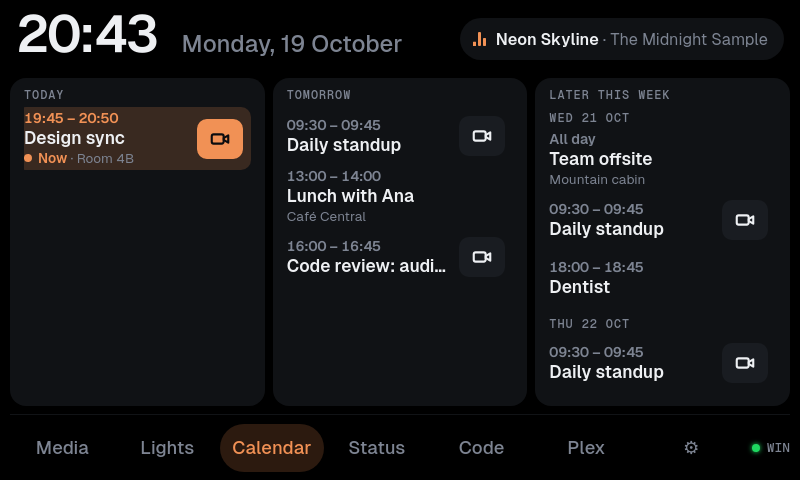
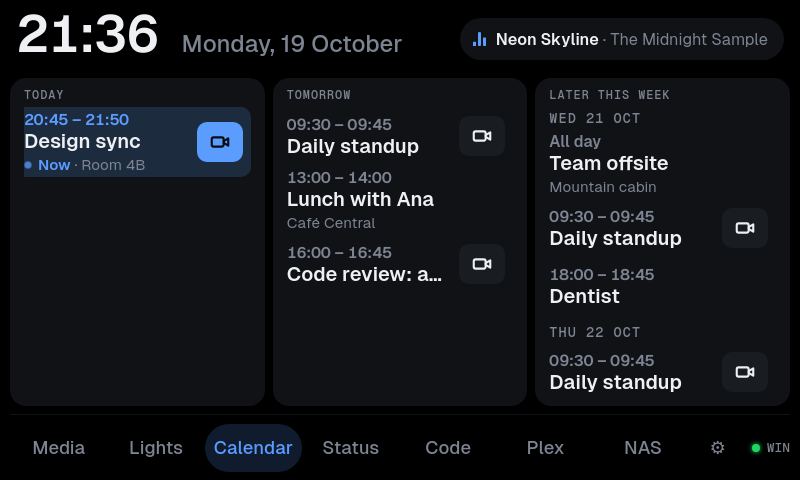
Document the NAS page and how to connect TrueNAS; add NAS and reminder screenshots

diff --git a/README.md b/README.md
@@ -8,7 +8,7 @@ as soon as you plug it in.
 - **Touchscreen:** pages of large tiles (Desktop, Shell, and a calls page: Discord
   or Meetings), each sending a shortcut, a media key, typed text or a sequence of
   steps, plus live pages filled by the computer agent: Media, Lights (Philips Hue),
-  Calendar, Status, Code (GitHub) and Plex. Up to seven tabs share the bottom bar;
+  Calendar, Status, Code (GitHub), Plex and NAS (TrueNAS). Up to seven tabs share the bottom bar;
   with more, it shows four at a time and scrolls. Settings → Tabs sets their order
   and hides any you don't use; live pages you haven't set up (no config file yet)
   start hidden and can be turned on there. On live pages, the top bar also shows the song
@@ -34,7 +34,8 @@ as soon as you plug it in.
 - **Computer agent (optional):** a small background agent on the computer adds what's
   playing with its cover, Philips Hue lights, your calendar with Join buttons,
   CPU/memory/GPU/network graphs, a kill switch for the app in focus, GitHub Actions
-  runs and pull requests, the streams and load of your Plex server, a volume bar,
+  runs and pull requests, the streams and load of your Plex server, your TrueNAS
+  pools, disks, alerts and apps, a volume bar,
   an audio device picker, a clock and a lock screen (see [Computer agent](#computer-agent)).
 - **Standby screen** while the computer sleeps; the pad reconnects by itself
   when it wakes up.
@@ -62,6 +63,8 @@ The Car Thing's screen is 800×480. These use made-up demo data.
 | **Desktop:** a tile page | **Settings → Appearance** |
 | ![Settings, Tabs: the pages in order with up and down arrows](docs/screenshots/tabs.png) | ![Plex page: three streams with posters and transcode tags, the server's CPU and bandwidth graphs, and the libraries](docs/screenshots/plex.png) |
 | **Settings → Tabs:** the order, and which tabs show | **Plex:** streams and how each is sent, server load, libraries |
+| ![NAS page: TrueNAS pools as tanks that fill up, disk temperatures, alerts and apps](docs/screenshots/nas.png) | ![A meeting reminder over the Code page: a countdown with Join meeting and Dismiss](docs/screenshots/reminder.png) |
+| **NAS:** TrueNAS pools, disks, alerts and apps | **Meeting reminder:** 5 minutes before, on any page |
 
 ## Requirements
 
@@ -209,6 +212,12 @@ them to the Car Thing **over the USB cable** (`adb forward`; no network):
   with any library scan in progress. The graphs need Plex Pass. The page refreshes
   every 3 seconds while it's on screen, every 30 seconds otherwise (see
   [Connecting Plex](#connecting-plex)).
+- **NAS (TrueNAS):** each pool as a tank that fills up (yellow from 80%, red from 90%)
+  with its health and free space, the temperature of every disk (NVMe drives have
+  their own, higher limits), the server's alerts, and how many apps run and how many
+  have updates. Below the pools: the TrueNAS version, uptime, cores, memory and load.
+  It refreshes every 10 seconds while on screen, every minute otherwise (see
+  [Connecting TrueNAS](#connecting-truenas)).
 - **Volume and audio devices:** when the volume or mute changes (the dial, the Mute
   tile, your keyboard), a volume bar shows at the top for a moment. The Media page
   header shows the current output; tap it to pick the output and input devices.
@@ -218,16 +227,17 @@ them to the Car Thing **over the USB cable** (`adb forward`; no network):
   - macOS: the volume always; switching devices needs `brew install switchaudio-osx`.
 - **Clock:** the agent sets the Car Thing's clock and time zone (DST included).
   The time shows large with the date at the top of the live pages (Media, Lights,
-  Calendar, Status, Code, Plex), and on the standby and lock
+  Calendar, Status, Code, Plex, NAS), and on the standby and lock
   screens; 24h/12h is under Settings → General → Clock.
 - **Lock screen:** while the computer is locked, the Car Thing shows the clock,
   "🔒 Computer locked", the cover and what's playing, and media buttons. Tiles,
   presets and dial modes that press keys are blocked while locked, so nothing gets
   typed into the password box; media keys, volume and the wheel still work.
 
-The agent works hardest for the page on screen: Lights, Status (its GPU reading), Code
-and Plex update every few seconds while you look at them and slowly otherwise (every
-30 seconds; GitHub every 5 minutes), and opening one of them fetches its data right away.
+The agent works hardest for the page on screen: Lights, Status (its GPU reading), Code,
+Plex and NAS update every few seconds while you look at them and slowly otherwise (every
+30 seconds; GitHub every 5 minutes, NAS every minute), and opening one of them fetches
+its data right away.
 What the other screens need (the song, volume, lock state, calendar) keeps its usual pace.
 
 Install it once per computer (and once per OS on a dual-boot PC). It starts at
@@ -326,6 +336,31 @@ networks that are allowed without auth" does not ask for one. The agent reads
 The token gives access to your Plex account, so keep `plex.txt` to yourself. The
 graphs of CPU and bandwidth need Plex Pass. Without it, the page shows the streams and
 libraries only.
+
+### Connecting TrueNAS
+
+The agent reads your TrueNAS server on the local network through its own API, with an
+API key. It needs TrueNAS 25.04 or later (the WebSocket API).
+
+1. Open the TrueNAS web interface (for example `https://192.168.1.30`) and sign in.
+2. Click the **person icon** at the top right, then **My API Keys**. (If it isn't
+   there, use **Credentials → API Keys** in the sidebar.)
+3. Click **Add**, name it `thingdeck`, leave **Non-expiring** on, and **Save**.
+4. TrueNAS shows the key **only once**: copy it.
+5. Create `truenas.txt` next to `calendars.txt` with the server's address on the
+   first line and the key on the second:
+
+   ```
+   192.168.1.30
+   1-AbCdEf…
+   ```
+
+The NAS page shows up within a minute; no restart needed. The agent always connects
+over HTTPS: TrueNAS revokes a key that is ever sent over plain HTTP. It accepts the
+server's self-signed certificate for that address only. The agent only reads (system
+info, pools, disk temperatures, alerts, apps). The key carries the rights of the user
+who made it, so for read-only access, make it as a user in the read-only
+administrators group. Keep `truenas.txt` to yourself.
 
 ## When the computer sleeps
 

diff --git a/device/README.md b/device/README.md
@@ -269,7 +269,7 @@ links and meeting links only).
 The command poll's reply carries `visible`, the widgets of the page on screen
 (`Pad.visible_widgets()`; none on the standby or lock screen). The agent reads those
 often and the rest slowly:
-Hue 2 s / 30 s, Plex 3 s / 30 s, GitHub 1 min (15 s while a workflow runs) / 5 min, and
+Hue 2 s / 30 s, Plex 3 s / 30 s, TrueNAS 10 s / 60 s, GitHub 1 min (15 s while a workflow runs) / 5 min, and
 the GPU part of the stats 2 s / 30 s (the rest of the stats, the song, audio, the host
 heartbeat and the calendars keep their pace). A widget that comes on screen is read at
 once. `PLEX_TTL` is 75 s so slow Plex updates don't expire.
@@ -330,6 +330,30 @@ same image.
 
 The widget `"plex"` redraws the streams card and the side cards separately, and it
 changes the progress bars in place.
+
+### TrueNAS
+
+The agent reads the TrueNAS server in `truenas.txt` (address, then an API key)
+through its JSON-RPC 2.0 API over a WebSocket, `wss://<address>/api/current`
+(TrueNAS 25.04+; the REST API is deprecated there). Each read opens one connection,
+calls `auth.login_with_api_key`, then `system.info`, `pool.query` (only the fields it
+shows, through `select`), `disk.temperatures`, `alert.list` and `app.query`, and
+closes it. Replies are matched by `id`, so notifications in between are skipped. A
+failing call other than `system.info` only leaves its part empty.
+
+It is always TLS: TrueNAS revokes an API key that arrives over plain HTTP. The
+certificate is usually self-signed, so the agents accept it for that address only (the
+same callback as the Hue bridge on Windows; `CERT_NONE` on that one socket in Python).
+Windows uses .NET's `ClientWebSocket`; Python has no WebSocket client, so
+`nowplaying.py` has a small one (masked text frames, ping/pong, fragments).
+
+Every 10 s while the NAS page is on screen, 60 s otherwise and after an error, the
+agent posts `POST /api/truenas` with `{state, system, pools, disks, alerts, apps}`.
+It sends only changes, plus one at least every 30 s. Alerts leave out dismissed and
+INFO ones. A call waits at most 5 s, because the Windows agent's main loop waits on it.
+`HostTrueNAS` keeps the last update and clears it after 150 s without one. The widget
+`"truenas"` shows pools as tanks (80% yellow, 90% red), disk temperatures (45/55 °C,
+NVMe 60/70 °C), alerts and apps.
 
 ### Tab order
 
@@ -435,8 +459,8 @@ page, or `adb shell`).
 | Method | Path | Body | Purpose |
 |---|---|---|---|
 | GET | `/api/ping` | | Health check (used by `shim.html`) |
-| GET | `/api/state` | | Config, state, presets, now playing, stats, agenda, audio, github, hue, plex |
-| GET | `/api/events` | | SSE stream: `state`, `config`, `fired`, `turn`, `hw`, `toast`, `nowplaying`, `stats`, `agenda`, `audio`, `github`, `hue`, `hue_dial`, `plex` |
+| GET | `/api/state` | | Config, state, presets, now playing, stats, agenda, audio, github, hue, plex, truenas |
+| GET | `/api/events` | | SSE stream: `state`, `config`, `fired`, `turn`, `hw`, `toast`, `nowplaying`, `stats`, `agenda`, `audio`, `github`, `hue`, `hue_dial`, `plex`, `truenas` |
 | GET | `/api/info` | | Uptime, temperature, memory, load, brightness |
 | POST | `/api/tap` | `{"page", "index"}` | Run a tile |
 | POST | `/api/preset` | `{"index"}` | Run a preset |
@@ -459,6 +483,7 @@ page, or `adb shell`).
 | POST | `/api/hue/select` | `{"id"}` | Make a room the target of the Lights dial mode |
 | POST | `/api/plex` | `{"state", "server"?, "sessions"?, "load"?, "net"?, "libraries"?, "activities"?, "posters"?, "error"?}` | From the host agent every 3 s. Replies `{"need_art": [keys]}` |
 | GET | `/api/plex/art?k=…` | | A stream's poster |
+| POST | `/api/truenas` | `{"state", "system"?, "pools"?, "disks"?, "alerts"?, "apps"?, "error"?}` | From the host agent every 10 s on screen, 60 s otherwise |
 | GET | `/api/commands` | | For the host agent: queued commands (`{"hue": [...], "github_refresh": bool}`, emptied on read) and the panels on screen (`"visible"`) |
 | POST | `/api/github/refresh` | | Ask the agent to read GitHub now (pull down on the Code page) |
 | POST | `/api/run` | any action | Run an action |
